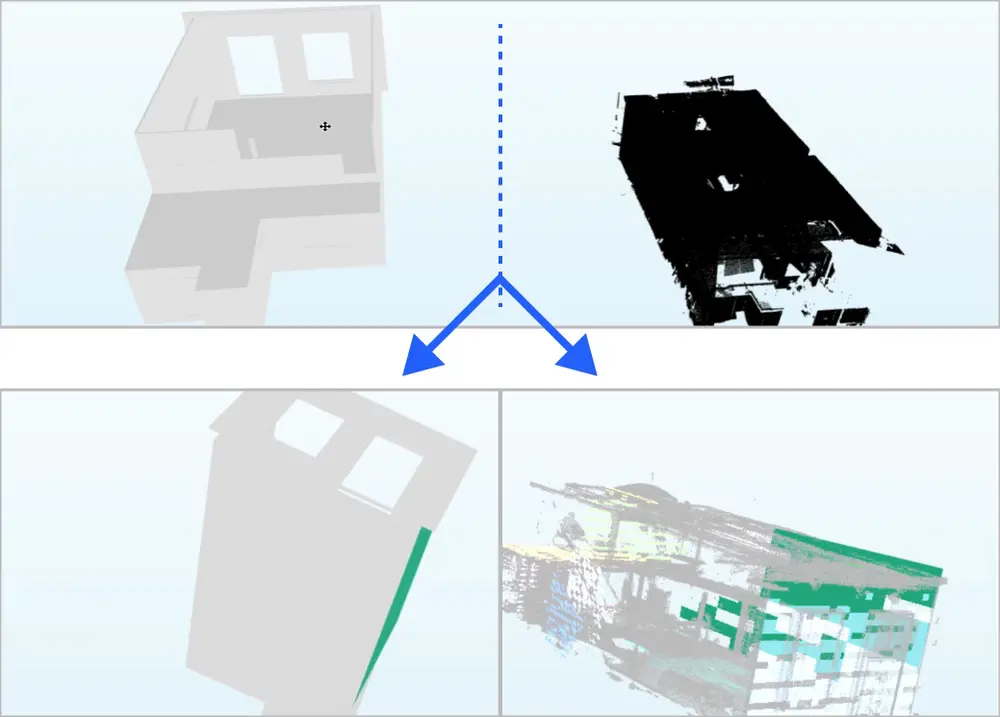
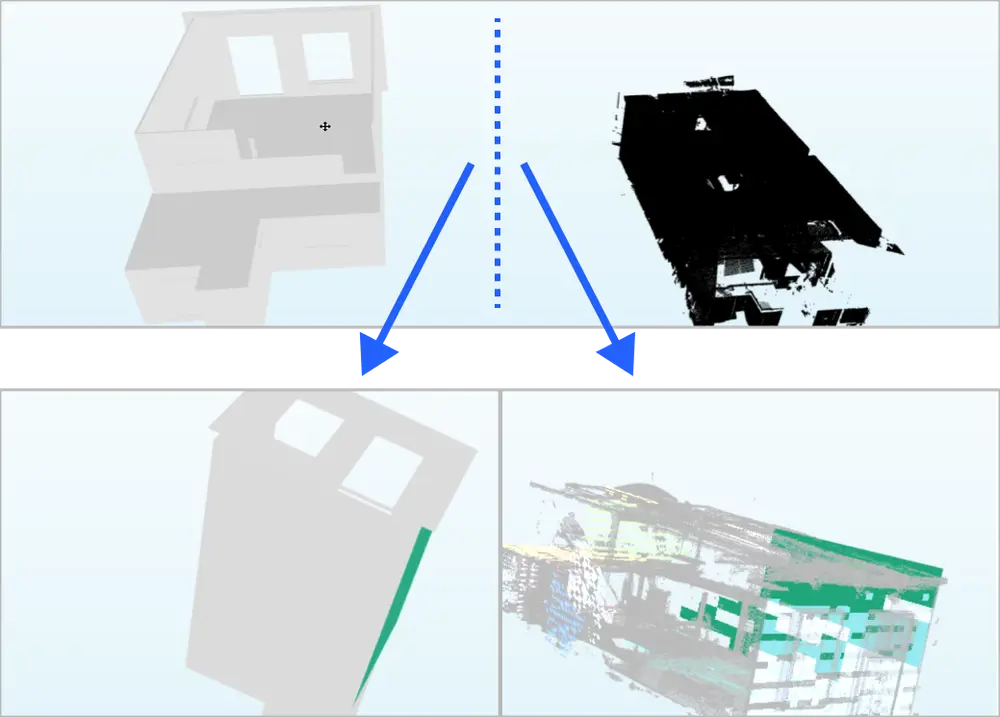
update images

diff --git a/content/posts/aligning-models-with-laser-point-reality/index.md b/content/posts/aligning-models-with-laser-point-reality/index.md
@@ -299,7 +299,7 @@ After the team pushed the update to the development server, we reviewed the expe
 
 Then one of the developers proposed a compelling solution: splitting the screen. Rather than have the axis centered between the objects, give each object its own viewing space with a centered rotation. In this way, searching for a surface on the model— whether you were panning, zooming, or rotating— would not affect your view of the point cloud (and vice versa).
 
-{{< webp image="/process-protoV2-split-screen.jpg" caption="We created more consistency and increased ease-of-use by splitting the screen between the model and point cloud." >}}
+{{< webp image="/process-protoV2-split-screen.png" caption="We created more consistency and increased ease-of-use by splitting the screen between the model and point cloud." >}}
 
 Once the team pushed a working version of the new rotational system to the development server, improvement to the viewing experience was evident. With the model and scan in their own viewing space, they rotated in place and required little or no panning to navigate around their shape. This split-screen change had made the process of finding surfaces quicker and easier. Split-screen was here to stay.
 
